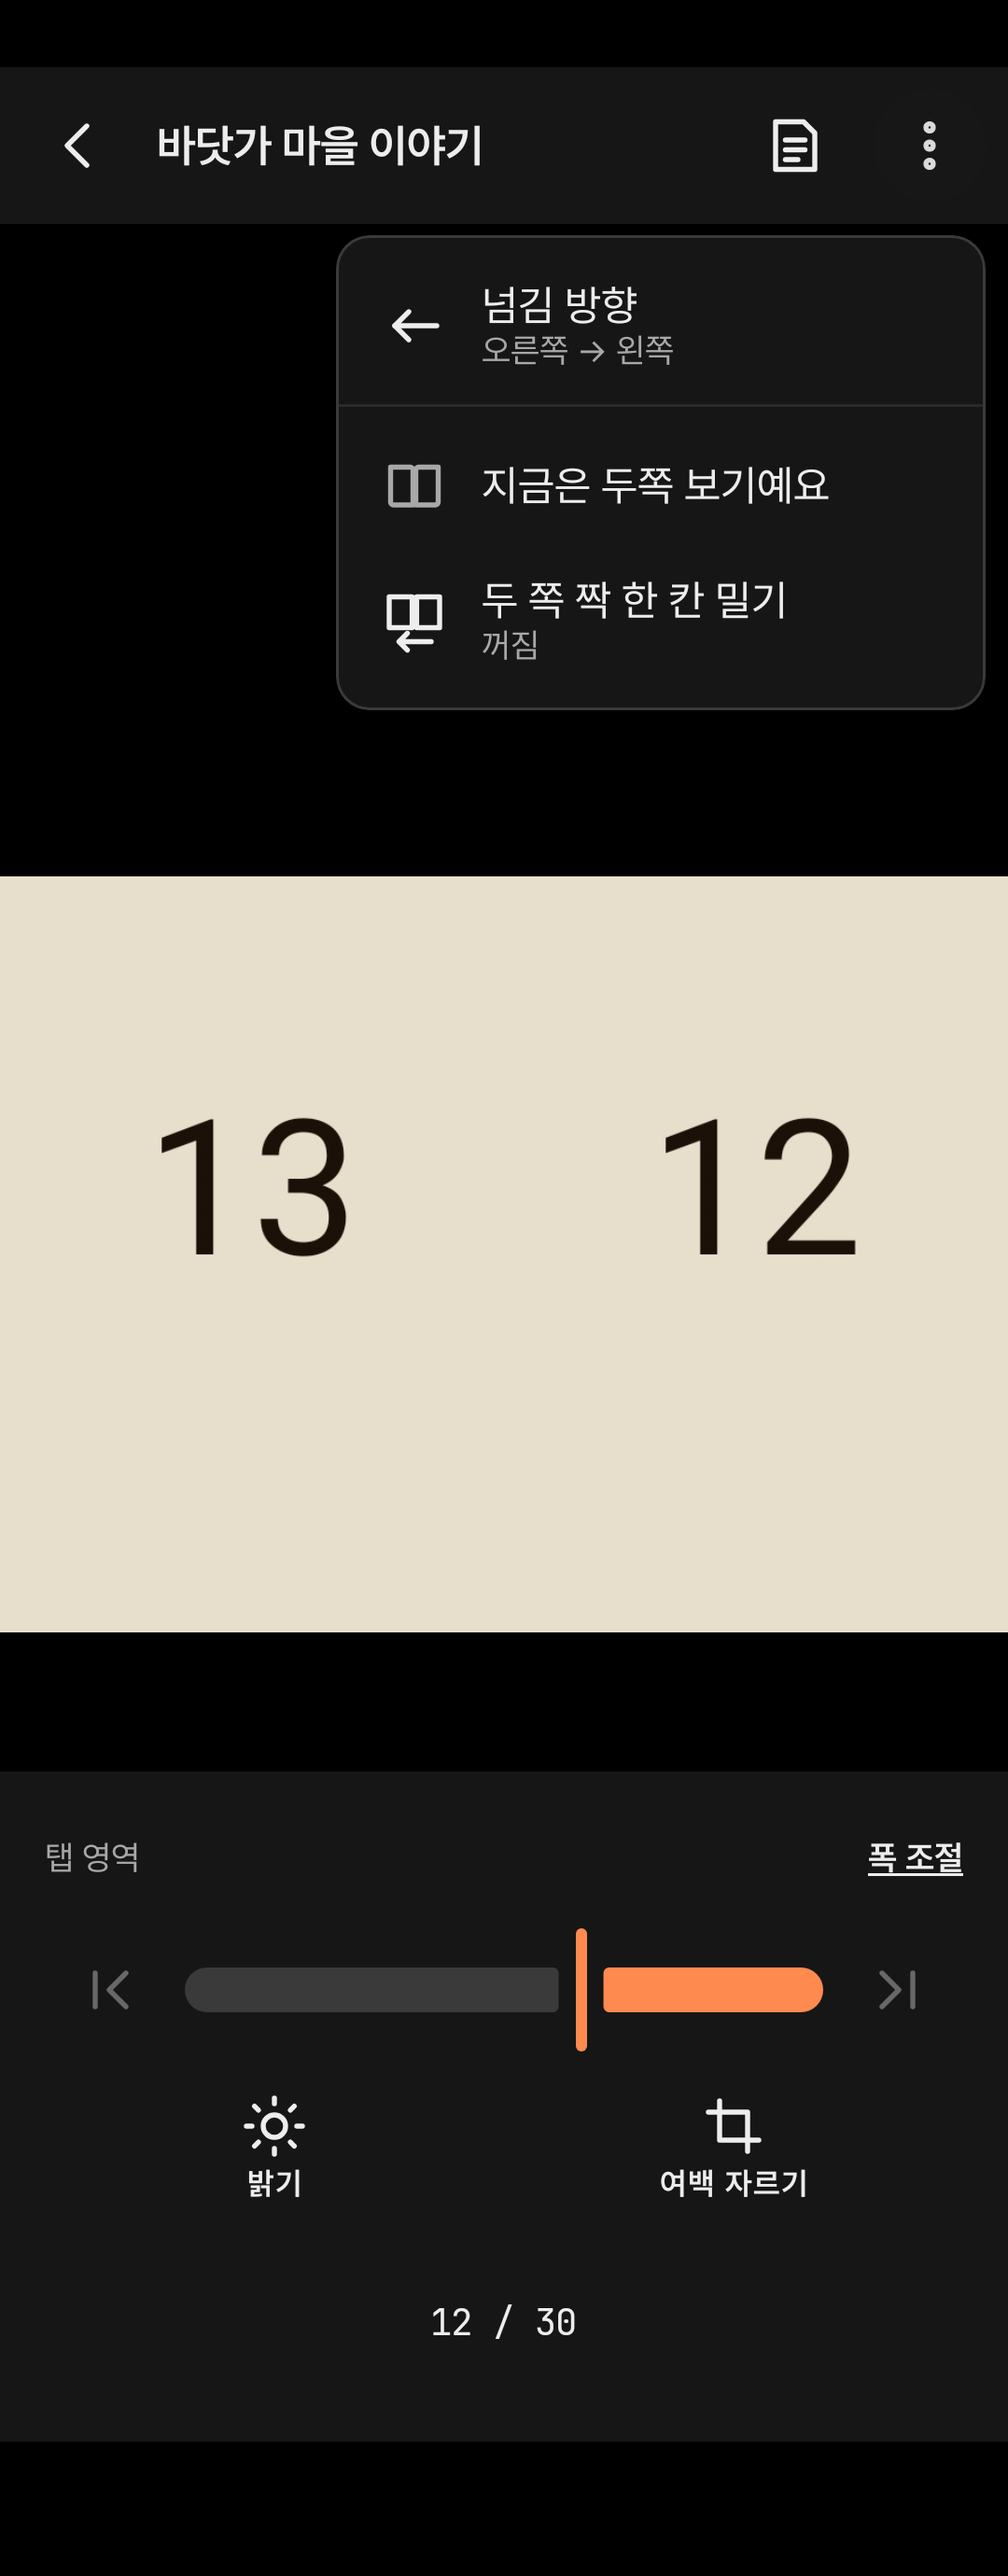
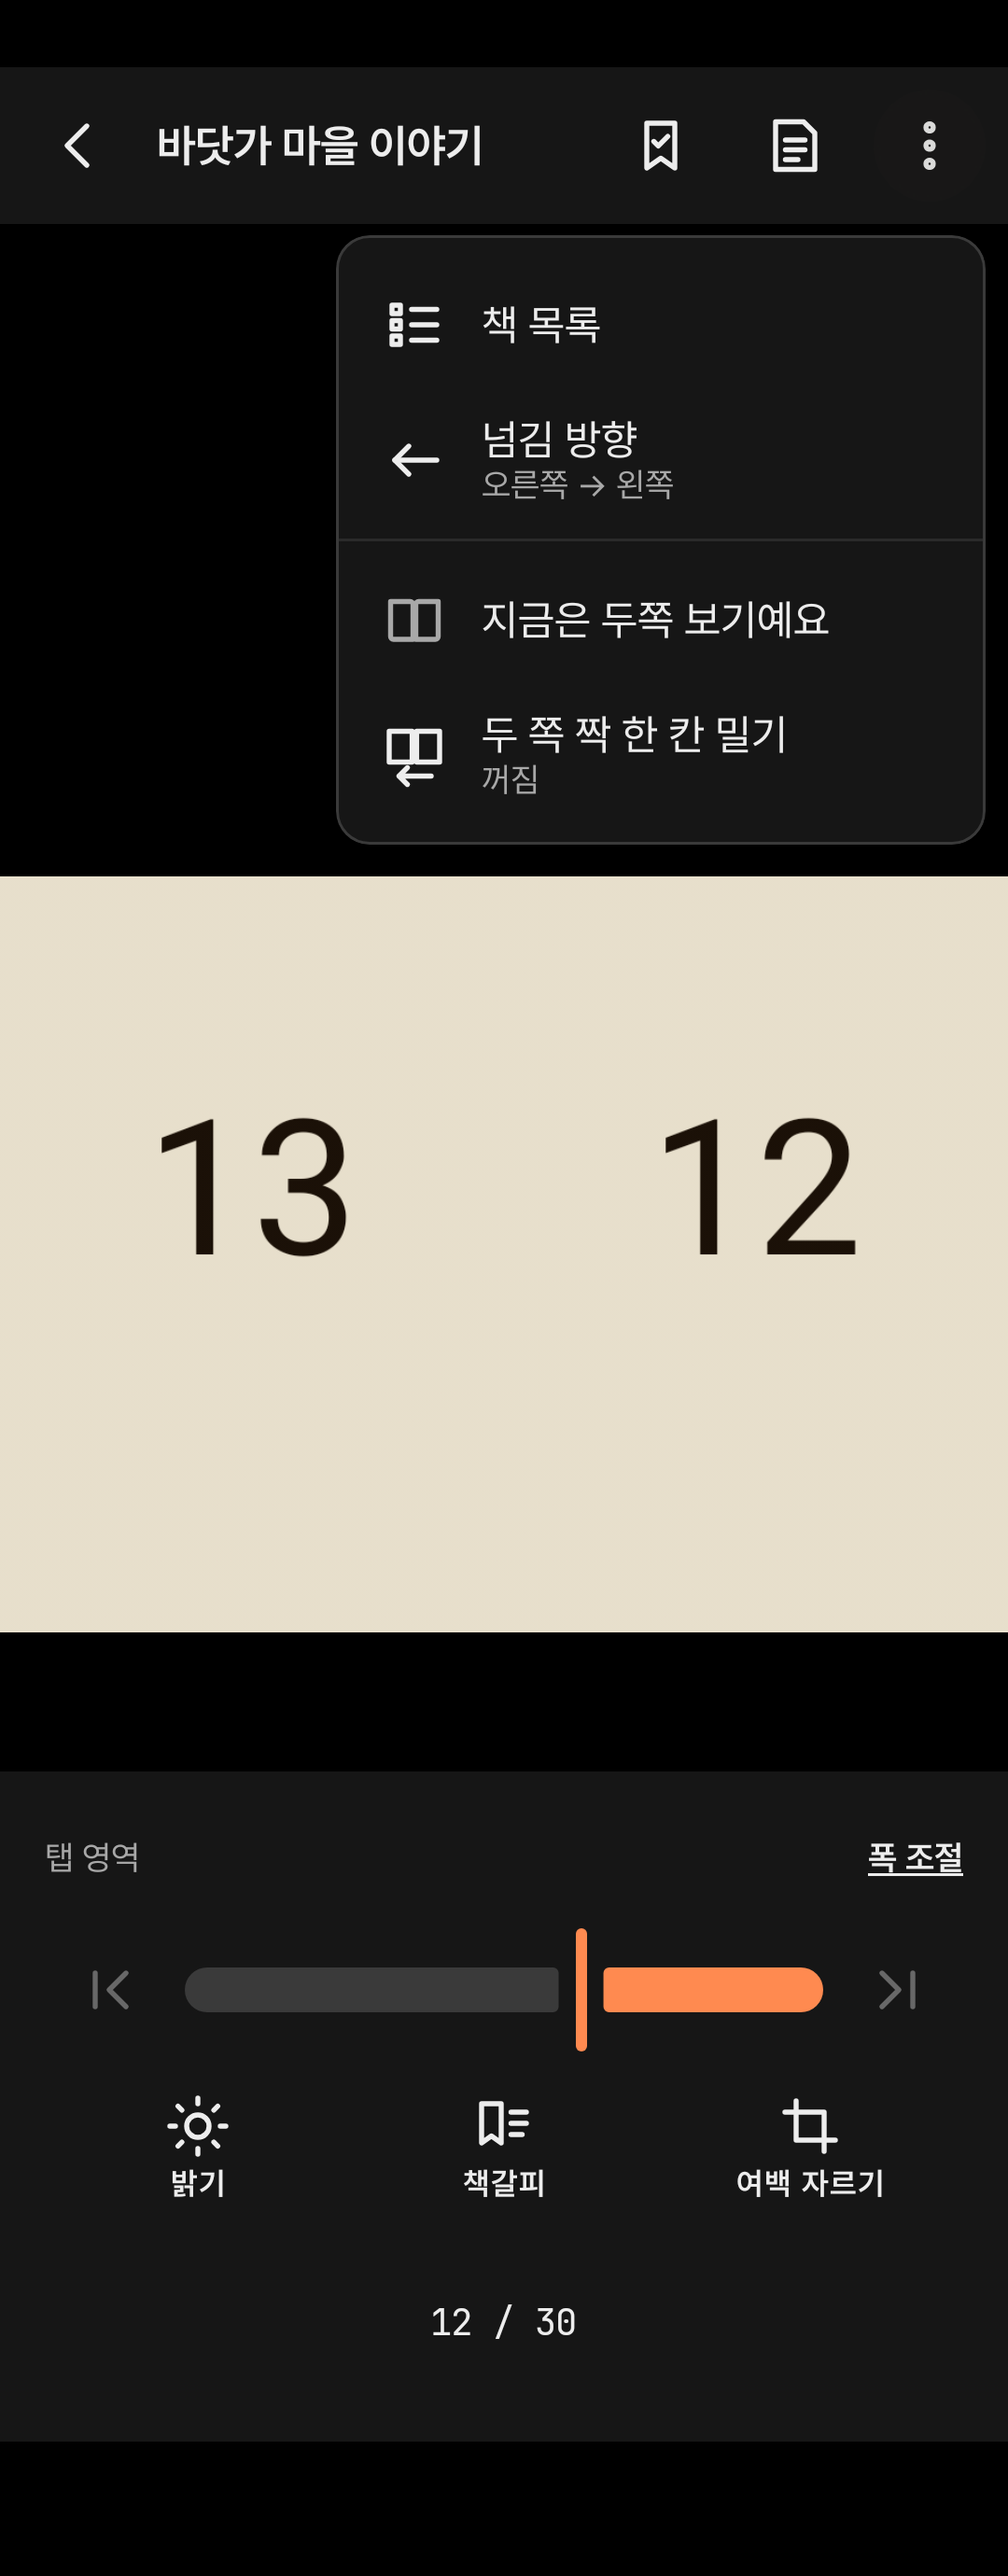
test(screenshots): record the shift menu at the configuration font scale
LocalDensity never reached the Popup window, so the 320dp "font 2.0" capture
was actually 1.0. Use @Config(fontScale = 2f), which the popup's context
configuration also sees, and re-record: the labels wrap and the row grows.

Pass the book list and a bookmark so the captures show the full top bar, and
add an LTR capture for ic_spread_shift. Opt in to the Roborazzi API that
captureScreenRoboImage needs.

diff --git a/app/src/test/java/org/parkjw/apps/pdfbook/screenshot/SpreadShiftScreenshotsTest.kt b/app/src/test/java/org/parkjw/apps/pdfbook/screenshot/SpreadShiftScreenshotsTest.kt
@@ -5,22 +5,25 @@ import android.graphics.Canvas
 import android.graphics.Paint
 import androidx.compose.foundation.layout.fillMaxSize
 import androidx.compose.foundation.pager.rememberPagerState
-import androidx.compose.runtime.CompositionLocalProvider
 import androidx.compose.ui.Modifier
-import androidx.compose.ui.platform.LocalDensity
 import androidx.compose.ui.test.junit4.v2.createComposeRule
 import androidx.compose.ui.test.onNodeWithTag
 import androidx.compose.ui.test.performClick
-import androidx.compose.ui.unit.Density
 import androidx.test.ext.junit.runners.AndroidJUnit4
+import com.github.takahirom.roborazzi.ExperimentalRoborazziApi
 import com.github.takahirom.roborazzi.captureScreenRoboImage
 import org.junit.Assume.assumeTrue
 import org.junit.Before
 import org.junit.Rule
 import org.junit.Test
 import org.junit.runner.RunWith
+import org.parkjw.apps.pdfbook.BookInfo
+import org.parkjw.apps.pdfbook.BookListEntry
+import org.parkjw.apps.pdfbook.BookListUi
 import org.parkjw.apps.pdfbook.PageBitmaps
+import org.parkjw.apps.pdfbook.ReaderBookmarks
 import org.parkjw.apps.pdfbook.ReaderScreen
+import org.parkjw.apps.pdfbook.ReaderVolumes
 import org.parkjw.apps.pdfbook.ReadingDirection
 import org.parkjw.apps.pdfbook.settings.DisplayMode
 import org.parkjw.apps.pdfbook.spreadIndexOf
@@ -29,6 +32,7 @@ import org.parkjw.apps.pdfbook.ui.theme.ReaderBackground
 import org.robolectric.annotation.Config
 import org.robolectric.annotation.GraphicsMode
 
+@OptIn(ExperimentalRoborazziApi::class)
 @RunWith(AndroidJUnit4::class)
 @GraphicsMode(GraphicsMode.Mode.NATIVE)
 @Config(sdk = [37])
@@ -69,9 +73,14 @@ class SpreadShiftScreenshotsTest {
         capture("reader-spread-shift-menu-single-360.png", shift = false, twoPage = false)
 
     @Test
-    @Config(qualifiers = "ko-w320dp-h920dp-xxhdpi")
+    @Config(qualifiers = "ko-w320dp-h920dp-xxhdpi", fontScale = 2f)
     fun compact320Font2() =
-        capture("reader-spread-shift-menu-320-font2.png", shift = true, fontScale = 2f)
+        capture("reader-spread-shift-menu-320-font2.png", shift = true)
+
+    @Test
+    @Config(qualifiers = FOLDED_QUALIFIERS)
+    fun compactOnLtr() =
+        capture("reader-spread-shift-menu-360-on-ltr.png", shift = true, direction = ReadingDirection.LTR)
 
     @Test
     @Config(qualifiers = FOLDABLE_QUALIFIERS)
@@ -82,7 +91,7 @@ class SpreadShiftScreenshotsTest {
         shift: Boolean,
         twoPage: Boolean = true,
         displayMode: DisplayMode = DisplayMode.Default,
-        fontScale: Float = 1f,
+        direction: ReadingDirection = ReadingDirection.RTL,
     ) {
         val pageCount = 30
         val pageSpreads = spreads(
@@ -94,29 +103,26 @@ class SpreadShiftScreenshotsTest {
         val index = spreadIndexOf(pageSpreads, 12)
         composeRule.setContent {
             ScreenshotTheme(dark = false, systemBarsColor = ReaderBackground) {
-                val base = LocalDensity.current
-                CompositionLocalProvider(
-                    LocalDensity provides Density(density = base.density, fontScale = fontScale),
-                ) {
-                    ReaderScreen(
-                        renderer = NumberedPageBitmaps(pageCount),
-                        pagerState = rememberPagerState(initialPage = index, pageCount = { pageSpreads.size }),
-                        spreads = pageSpreads,
-                        title = "바닷가 마을 이야기",
-                        pageCount = pageCount,
-                        currentPage = 12,
-                        twoPage = twoPage,
-                        onBack = {},
-                        onDirectionChange = {},
-                        direction = ReadingDirection.RTL,
-                        overlayVisible = true,
-                        showTapZoneGuide = false,
-                        displayMode = displayMode,
-                        spreadShift = shift,
-                        onSpreadShiftChange = {},
-                        modifier = Modifier.fillMaxSize(),
-                    )
-                }
+                ReaderScreen(
+                    renderer = NumberedPageBitmaps(pageCount),
+                    pagerState = rememberPagerState(initialPage = index, pageCount = { pageSpreads.size }),
+                    spreads = pageSpreads,
+                    title = "바닷가 마을 이야기",
+                    pageCount = pageCount,
+                    currentPage = 12,
+                    twoPage = twoPage,
+                    onBack = {},
+                    onDirectionChange = {},
+                    direction = direction,
+                    overlayVisible = true,
+                    showTapZoneGuide = false,
+                    displayMode = displayMode,
+                    volumes = volumes,
+                    bookmarks = bookmarks,
+                    spreadShift = shift,
+                    onSpreadShiftChange = {},
+                    modifier = Modifier.fillMaxSize(),
+                )
             }
         }
         composeRule.waitForIdle()
@@ -125,6 +131,21 @@ class SpreadShiftScreenshotsTest {
         composeRule.mainClock.autoAdvance = false
         captureScreenRoboImage(file)
     }
+
+    private val volumes = ReaderVolumes(
+        bookList = BookListUi(
+            folderName = "pdfbook-verify",
+            entries = listOf(
+                BookListEntry(
+                    book = BookInfo(uri = "content://test/book-01.pdf", name = "바닷가 마을 이야기 01.pdf", size = 1),
+                    isCurrent = true,
+                    percent = 40,
+                ),
+            ),
+        ),
+    )
+
+    private val bookmarks = ReaderBookmarks(pages = listOf(12)) {}
 
     private class NumberedPageBitmaps(override val pageCount: Int) : PageBitmaps {
         override suspend fun render(page: Int, maxWidth: Int, maxHeight: Int): Bitmap? {
